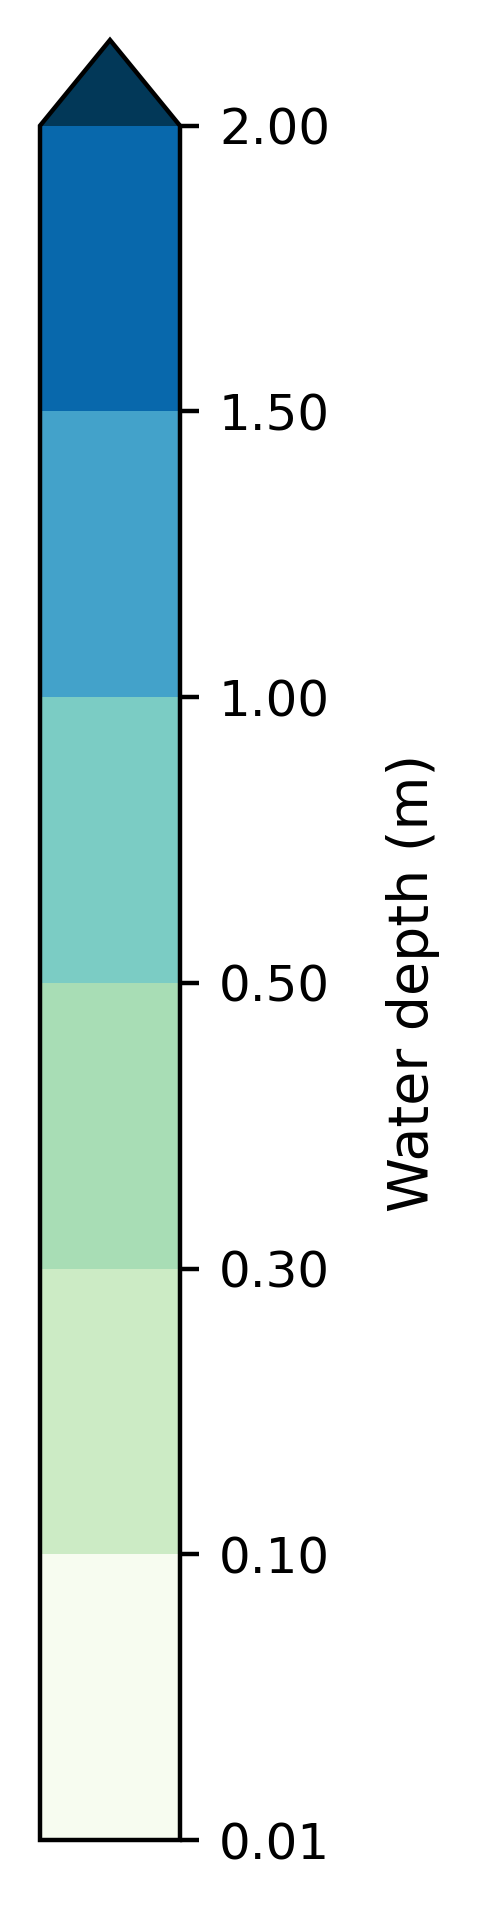
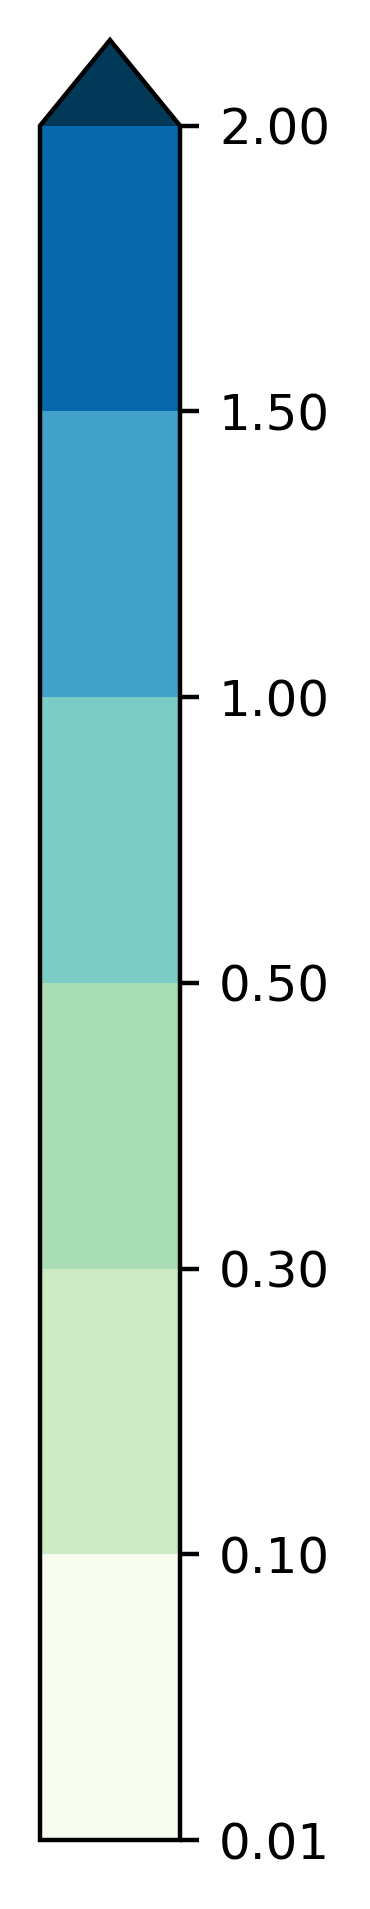
Initial import

diff --git a/index.html b/index.html
@@ -4,97 +4,100 @@
   <meta charset="UTF-8">
   <title>COSMO Ensembles + Combiprecip (4×3)</title>
   <style>
-    :root { --panel-w: 360px; }
-    body {
-      font-family: Arial, sans-serif;
-      background-color: #f7f7f7;
-      margin: 0;
-      padding: 0;
+    /* Smaller tiles; bigger colorbar */
+    :root {
+      --panel-w: 300px;    /* was 360px */
+      --gap: 14px;         /* a touch tighter */
     }
-    .slider-container {
-      text-align: center;
-      padding: 10px;
-      background-color: #eeeeee;
-      position: sticky;
-      top: 0;
-      z-index: 10;
+    body { font-family: Arial, sans-serif; background:#f7f7f7; margin:0; padding:0; }
+    .slider-container { text-align:center; padding:10px; background:#eee; position:sticky; top:0; z-index:10; }
+    input[type=range]{ width:40%; height:25px; }
+    .wrapper{ display:flex; flex-direction:row; height:calc(100vh - 60px); }
+    .grid{ flex-grow:1; overflow-y:auto; padding:12px; }
+    .grid-inner{
+      display:grid;
+      grid-template-columns: repeat(4, var(--panel-w)); /* 4 per row */
+      gap: var(--gap);
+      justify-content:center;
     }
-    input[type=range] { width: 40%; height: 25px; }
-    .wrapper { display: flex; flex-direction: row; height: calc(100vh - 60px); }
-    .grid {
-      flex-grow: 1; overflow-y: auto; padding: 16px;
+    .panel{
+      width:var(--panel-w);
+      background:#fff; padding:10px;
+      border-radius:10px; box-shadow:0 2px 8px rgba(0,0,0,.08);
     }
-    .grid-inner {
-      display: grid;
-      grid-template-columns: repeat(4, var(--panel-w));
-      gap: 18px;
-      justify-content: center;
+    .panel h4{ font-size:13px; margin:4px 0 8px 0; }
+    .panel img{
+      display:block; width:100%; height:auto;
+      border:1px solid #ccc; border-radius:6px; background:#fff;
     }
-    .panel {
-      width: var(--panel-w);
-      background: #fff;
-      padding: 12px;
-      border-radius: 10px;
-      box-shadow: 0 2px 8px rgba(0,0,0,.08);
+
+    /* Bigger colorbar */
+    .side-panel{
+      width: 180px;                  /* was 120px */
+      display:flex; flex-direction:column; align-items:center; justify-content:center;
+      background:#eee; padding:10px;
     }
-    .panel img {
-      max-width: 100%; height: auto;
-      border: 1px solid #ccc; border-radius: 6px;
-      background: #fff;
+    .side-panel img{
+      width: 140px;                  /* was 80px */
+      max-width: 100%;
     }
-    .panel h4 { font-size: 14px; margin: 5px 0 8px 0; }
-    .side-panel {
-      width: 120px; display: flex; flex-direction: column;
-      align-items: center; justify-content: center;
-      background-color: #eeeeee; padding: 10px;
+
+    .hint{ color:#555; font-size:12px; margin-top:6px; }
+
+    /* Responsive: on narrower screens drop to 3 or 2 columns */
+    @media (max-width: 1400px){
+      .grid-inner{ grid-template-columns: repeat(3, var(--panel-w)); }
     }
-    .side-panel img { width: 80px; margin-top: 10px; }
-    .hint { color:#555; font-size:12px; margin-top:6px; }
+    @media (max-width: 1050px){
+      .grid-inner{ grid-template-columns: repeat(2, var(--panel-w)); }
+    }
   </style>
 </head>
 <body>
 
 <div class="slider-container">
   <div><strong>Lead Time (ensembles):</strong>
+    <!-- 0..8 => lead_time0..8 for ensembles -->
     <input type="range" min="0" max="8" value="0" id="leadSlider">
   </div>
-  <div class="hint">Ensembles show <code>lead_time1..9</code>. Combiprecip shows <code>lead_time4..12</code> (offset +3).</div>
+  <div class="hint">Ensembles show <code>lead_time0..8</code>. Combiprecip shows <code>lead_time4..12</code> (offset +4).</div>
 </div>
 
 <div class="wrapper">
   <div class="grid">
     <div class="grid-inner">
-      <!-- 11 ensemble tiles -->
-      <div class="panel"><h4>Ensemble 1</h4><img id="img_r1"  src="ZELL_PLOTS/Zell_2m_COSMO/wd_r1_lead_time1_zoom.png"  alt="Ensemble 1"></div>
-      <div class="panel"><h4>Ensemble 2</h4><img id="img_r2"  src="ZELL_PLOTS/Zell_2m_COSMO/wd_r2_lead_time1_zoom.png"  alt="Ensemble 2"></div>
-      <div class="panel"><h4>Ensemble 3</h4><img id="img_r3"  src="ZELL_PLOTS/Zell_2m_COSMO/wd_r3_lead_time1_zoom.png"  alt="Ensemble 3"></div>
-      <div class="panel"><h4>Ensemble 4</h4><img id="img_r4"  src="ZELL_PLOTS/Zell_2m_COSMO/wd_r4_lead_time1_zoom.png"  alt="Ensemble 4"></div>
+      <!-- 11 ensemble tiles (start at lead_time0) -->
+      <div class="panel"><h4>Ensemble 1</h4><img id="img_r1"  src="ZELL_PLOTS/Zell_2m_COSMO/wd_r1_lead_time0_zoom.png"  alt="Ensemble 1" loading="lazy" decoding="async"></div>
+      <div class="panel"><h4>Ensemble 2</h4><img id="img_r2"  src="ZELL_PLOTS/Zell_2m_COSMO/wd_r2_lead_time0_zoom.png"  alt="Ensemble 2" loading="lazy" decoding="async"></div>
+      <div class="panel"><h4>Ensemble 3</h4><img id="img_r3"  src="ZELL_PLOTS/Zell_2m_COSMO/wd_r3_lead_time0_zoom.png"  alt="Ensemble 3" loading="lazy" decoding="async"></div>
+      <div class="panel"><h4>Ensemble 4</h4><img id="img_r4"  src="ZELL_PLOTS/Zell_2m_COSMO/wd_r4_lead_time0_zoom.png"  alt="Ensemble 4" loading="lazy" decoding="async"></div>
 
-      <div class="panel"><h4>Ensemble 5</h4><img id="img_r5"  src="ZELL_PLOTS/Zell_2m_COSMO/wd_r5_lead_time1_zoom.png"  alt="Ensemble 5"></div>
-      <div class="panel"><h4>Ensemble 6</h4><img id="img_r6"  src="ZELL_PLOTS/Zell_2m_COSMO/wd_r6_lead_time1_zoom.png"  alt="Ensemble 6"></div>
-      <div class="panel"><h4>Ensemble 7</h4><img id="img_r7"  src="ZELL_PLOTS/Zell_2m_COSMO/wd_r7_lead_time1_zoom.png"  alt="Ensemble 7"></div>
-      <div class="panel"><h4>Ensemble 8</h4><img id="img_r8"  src="ZELL_PLOTS/Zell_2m_COSMO/wd_r8_lead_time1_zoom.png"  alt="Ensemble 8"></div>
+      <div class="panel"><h4>Ensemble 5</h4><img id="img_r5"  src="ZELL_PLOTS/Zell_2m_COSMO/wd_r5_lead_time0_zoom.png"  alt="Ensemble 5" loading="lazy" decoding="async"></div>
+      <div class="panel"><h4>Ensemble 6</h4><img id="img_r6"  src="ZELL_PLOTS/Zell_2m_COSMO/wd_r6_lead_time0_zoom.png"  alt="Ensemble 6" loading="lazy" decoding="async"></div>
+      <div class="panel"><h4>Ensemble 7</h4><img id="img_r7"  src="ZELL_PLOTS/Zell_2m_COSMO/wd_r7_lead_time0_zoom.png"  alt="Ensemble 7" loading="lazy" decoding="async"></div>
+      <div class="panel"><h4>Ensemble 8</h4><img id="img_r8"  src="ZELL_PLOTS/Zell_2m_COSMO/wd_r8_lead_time0_zoom.png"  alt="Ensemble 8" loading="lazy" decoding="async"></div>
 
-      <div class="panel"><h4>Ensemble 9</h4><img id="img_r9"  src="ZELL_PLOTS/Zell_2m_COSMO/wd_r9_lead_time1_zoom.png"  alt="Ensemble 9"></div>
-      <div class="panel"><h4>Ensemble 10</h4><img id="img_r10" src="ZELL_PLOTS/Zell_2m_COSMO/wd_r10_lead_time1_zoom.png" alt="Ensemble 10"></div>
-      <div class="panel"><h4>Ensemble 11</h4><img id="img_r11" src="ZELL_PLOTS/Zell_2m_COSMO/wd_r11_lead_time1_zoom.png" alt="Ensemble 11"></div>
+      <div class="panel"><h4>Ensemble 9</h4><img id="img_r9"  src="ZELL_PLOTS/Zell_2m_COSMO/wd_r9_lead_time0_zoom.png"  alt="Ensemble 9" loading="lazy" decoding="async"></div>
+      <div class="panel"><h4>Ensemble 10</h4><img id="img_r10" src="ZELL_PLOTS/Zell_2m_COSMO/wd_r10_lead_time0_zoom.png" alt="Ensemble 10" loading="lazy" decoding="async"></div>
+      <div class="panel"><h4>Ensemble 11</h4><img id="img_r11" src="ZELL_PLOTS/Zell_2m_COSMO/wd_r11_lead_time0_zoom.png" alt="Ensemble 11" loading="lazy" decoding="async"></div>
 
-      <!-- 12th tile: Combiprecip -->
+      <!-- 12th: Combiprecip (start at lead_time4) -->
       <div class="panel"><h4>Combiprecip</h4>
-        <img id="img_combi" src="ZELL_PLOTS/Zell_2m_Combiprecip/wd_det_lead_time4_zoom.png" alt="Combiprecip">
+        <img id="img_combi" src="ZELL_PLOTS/Zell_2m_Combiprecip/wd_det_lead_time4_zoom.png" alt="Combiprecip" loading="lazy" decoding="async">
       </div>
     </div>
   </div>
 
   <div class="side-panel">
+    <!-- bigger colorbar image -->
     <img src="water_depth_cbar_vertical.png" alt="Colorbar">
   </div>
 </div>
 
 <script>
-  // Slider index 0..8 -> ensembles lead_time 1..9
-  const leadEns = [1,2,3,4,5,6,7,8,9];
-  const offsetCombi = 3; // combi = L + 3 -> 4..12
+  // 0..8 -> lead_time0..8 (COSMO). Combiprecip uses L+4 -> 4..12
+  const leadEns = [0,1,2,3,4,5,6,7,8];
+  const offsetCombi = 4;
 
   const cosmoDir = "ZELL_PLOTS/Zell_2m_COSMO";
   const combiDir = "ZELL_PLOTS/Zell_2m_Combiprecip";
@@ -107,29 +110,23 @@
     const L  = leadEns[idx];
     const Lc = L + offsetCombi;
 
-    // Update ensembles
     for (let i=0;i<ensembleIds.length;i++){
       const img = document.getElementById(ensembleIds[i]);
       const r = rNums[i];
       img.src = `${cosmoDir}/wd_r${r}_lead_time${L}_zoom.png`;
     }
-    // Update combiprecip
-    document.getElementById("img_combi").src =
-      `${combiDir}/wd_det_lead_time${Lc}_zoom.png`;
-
+    document.getElementById("img_combi").src = `${combiDir}/wd_det_lead_time${Lc}_zoom.png`;
     document.getElementById("leadSlider").value = idx;
   }
 
   const slider = document.getElementById("leadSlider");
   slider.addEventListener("input", e => setImages(e.target.value));
 
-  // optional keyboard
   window.addEventListener("keydown", e => {
     if (e.key === "ArrowRight") setImages(Number(slider.value)+1);
     if (e.key === "ArrowLeft")  setImages(Number(slider.value)-1);
   });
 
-  // init
   setImages(0);
 </script>
 </body>
